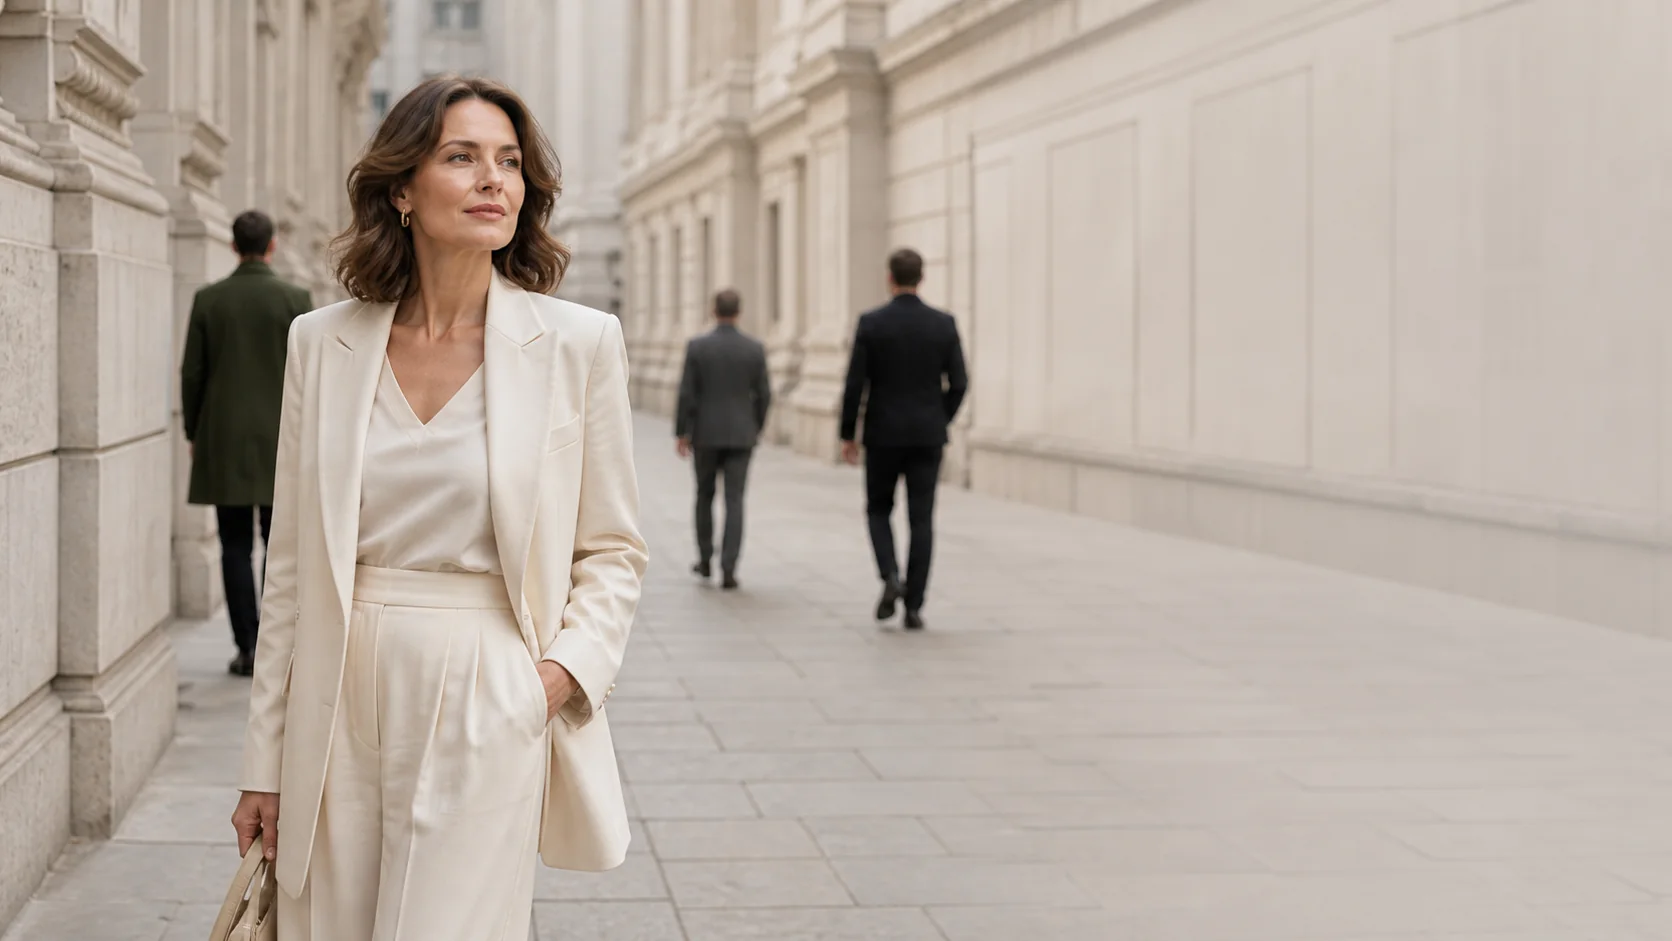
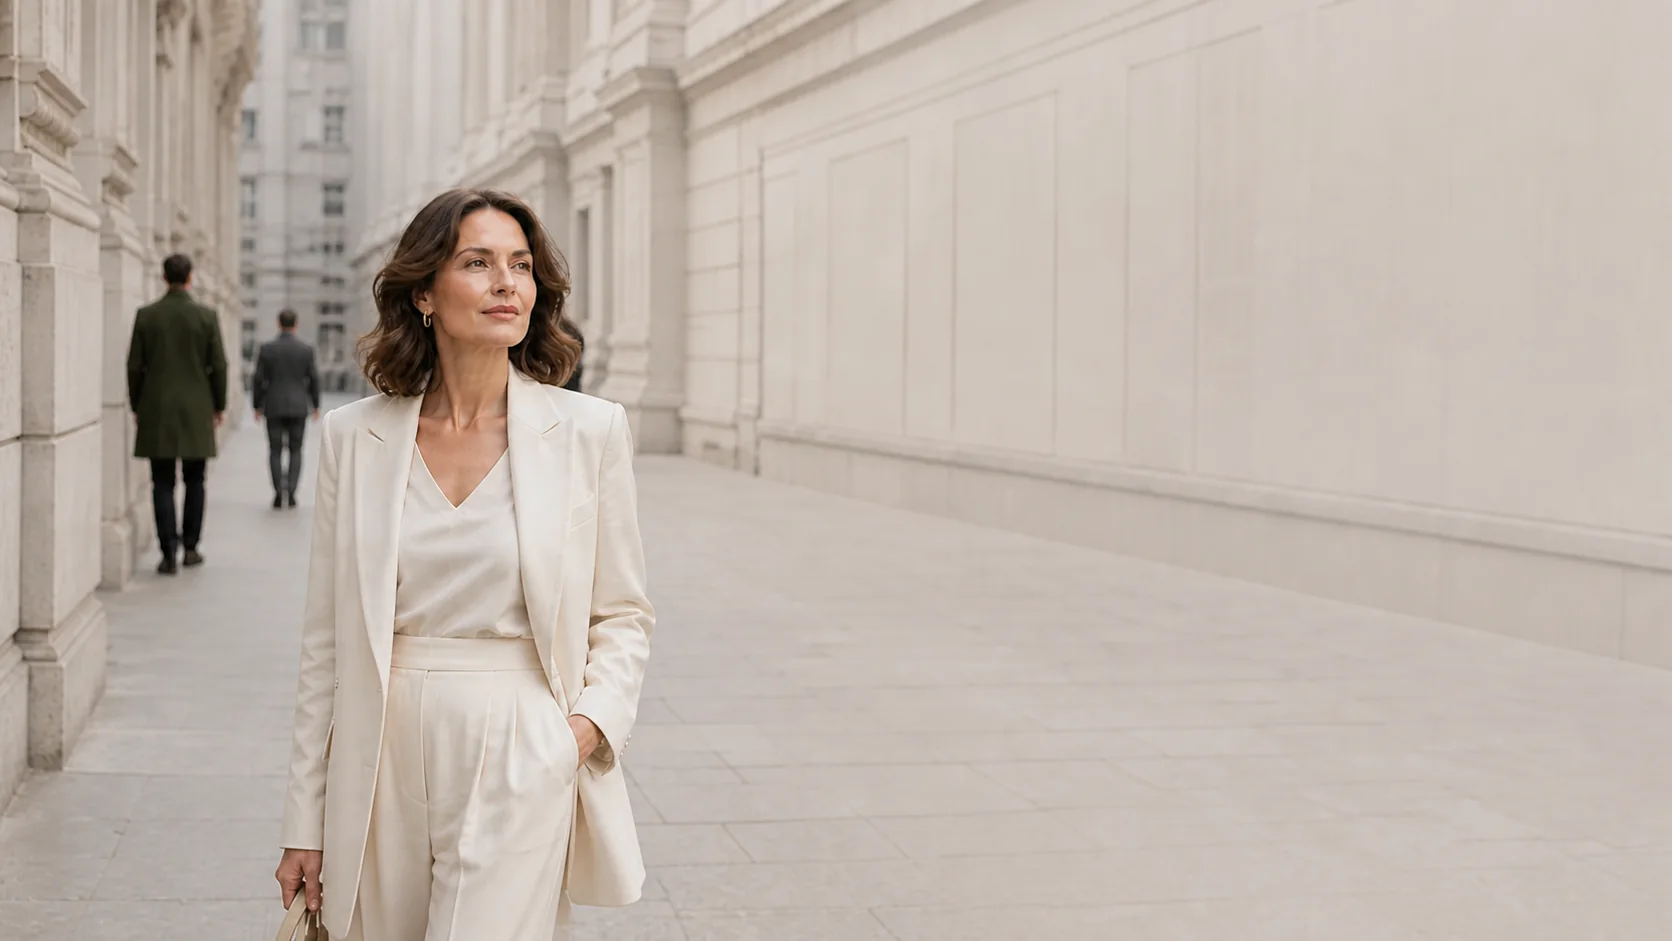
Refine relationship landing messaging

diff --git a/api/_relationship-dashboard-page.js b/api/_relationship-dashboard-page.js
@@ -258,6 +258,7 @@ export const RELATIONSHIP_DASHBOARD_PAGE = String.raw`<!doctype html>
       <section class="change-log" aria-labelledby="change-log-title">
         <div class="change-log__head"><div><p>Контрольные точки</p><h2 id="change-log-title">Сделанные изменения</h2></div></div>
         <ol>
+          <li><time datetime="2026-09-01">1 сентября 2026</time><div><strong>Уточнили пользу теста и композицию первого экрана</strong><p>В обоих flow термин «сценарий» заменён на прямое обещание: понять, что мешает и что можно изменить. CTA теперь соответствует задаче каждого теста. В Flow B слово «плохо?» выделено розовым акцентом; в десктопном Flow A люди убраны из зоны текста, а героиня отодвинута от логотипа.</p></div></li>
           <li><time datetime="2026-09-01">1 сентября 2026</time><div><strong>Синхронизировали лендинги с лучшими рекламными визуалами</strong><p>Flow A продолжает светлый городской сюжет объявления «Мужчины меняются. До отношений снова не доходит», Flow B — тёмный интерьер и вопрос «В отношениях всё нормально. Почему мне в них плохо?». Для мобильных подготовлены отдельные вертикальные кадры; лишние тексты, видео, список обещаний и ссылка с логотипа убраны. CTA заменён на «Узнать свой сценарий», подсказка про кнопку Start сохранена.</p></div></li>
           <li><time datetime="2026-08-31">31 августа 2026</time><div><strong>Добавили подсказку про запуск Telegram-бота</strong><p>Под основной кнопкой на обоих лендингах теперь явно написано: после перехода в Telegram нужно нажать «Запустить» / Start. Изменение направлено на снижение потерь между кликом по CTA и фактическим TelegramStart.</p></div></li>
           <li><time datetime="2026-08-31">31 августа 2026</time><div><strong>Подтвердили живую конверсию в Meta</strong><p>После исправления внутренняя статистика показывает 7 фактических вступлений: A — 3, B — 4. Events Manager увидел 4 Complete registration, а Ads Manager засчитал REL-B одну Website Completed Registration стоимостью $11.</p></div></li>

diff --git a/relationship-test/index.html b/relationship-test/index.html
@@ -4,7 +4,7 @@
   <meta charset="utf-8">
   <meta name="viewport" content="width=device-width, initial-scale=1">
   <title>Мужчины меняются. До отношений снова не доходит. — тест Evolution House</title>
-  <meta name="description" content="За 3 минуты узнайте, где всё останавливается и какой сценарий повторяется в ваших знакомствах.">
+  <meta name="description" content="За 3 минуты поймёте, почему знакомства не перерастают в отношения и что можно изменить.">
   <meta name="robots" content="noindex, nofollow">
   <link rel="canonical" href="https://evolution.yourbalancerestored.com/relationship-test/">
   <meta property="og:title" content="Бесплатный тест об отношениях — Evolution House">
@@ -52,7 +52,7 @@
         <div class="hero__copy">
           <p class="eyebrow">Бесплатный тест <span aria-hidden="true">·</span> 7 вопросов</p>
           <h1 id="hero-title">Мужчины меняются.<br>До отношений снова не доходит.</h1>
-          <p class="hero__lead" id="hero-lead">За 3 минуты узнайте, где всё останавливается и какой сценарий повторяется в ваших знакомствах.</p>
+          <p class="hero__lead" id="hero-lead">За 3 минуты поймёте, почему знакомства не перерастают в отношения и что можно изменить.</p>
 
           <div class="hero__actions">
             <a
@@ -61,7 +61,7 @@
               href="https://t.me/RelationshipScenarioBot?start=no_relationship_landing_a"
               rel="noopener"
             >
-              <span>Узнать свой сценарий</span>
+              <span id="telegram-cta-label">Понять, что мешает</span>
               <svg viewBox="0 0 24 24" aria-hidden="true"><path d="M21.7 3.1 18.6 20c-.2 1.2-.9 1.5-1.9.9l-4.8-3.5-2.3 2.2c-.3.3-.5.5-1 .5l.3-4.9 8.9-8c.4-.4-.1-.6-.6-.3l-11 6.9-4.7-1.5c-1-.3-1-1 .2-1.5L20.2 3.7c.9-.3 1.7.2 1.5-.6Z"/></svg>
             </a>
             <p class="telegram-start-note">Откроется Telegram. Нажмите <strong>«Запустить» (Start)</strong>.</p>

diff --git a/relationship-test/relationship-test.js b/relationship-test/relationship-test.js
@@ -3,14 +3,16 @@ const variants = {
     testId: "test_a_no_relationship",
     title: "Мужчины меняются. До отношений снова не доходит.",
     titleHtml: "Мужчины меняются.<br>До отношений снова не доходит.",
-    lead: "За 3 минуты узнайте, где всё останавливается и какой сценарий повторяется в ваших знакомствах.",
+    lead: "За 3 минуты поймёте, почему знакомства не перерастают в отношения и что можно изменить.",
+    ctaLabel: "Понять, что мешает",
     telegramUrl: "https://t.me/RelationshipScenarioBot?start=no_relationship_landing_a"
   },
   b: {
     testId: "test_b_relationship_challenges",
     title: "В отношениях всё нормально. Почему мне в них плохо?",
-    titleHtml: "В отношениях всё нормально.<br>Почему мне в них плохо?",
-    lead: "За 3 минуты узнайте, что происходит между вами и какой сценарий создаёт дистанцию.",
+    titleHtml: "В отношениях всё нормально.<br>Почему мне в них <span class=\"title-accent\">плохо?</span>",
+    lead: "За 3 минуты поймёте, что создаёт дистанцию между вами и что можно изменить.",
+    ctaLabel: "Понять, что происходит",
     telegramUrl: "https://t.me/RelationshipScenarioBot?start=relationship_challenges_landing_b"
   }
 };
@@ -26,12 +28,14 @@ function applyVariant() {
   const variantId = variant === variants.b ? "b" : "a";
   const title = document.getElementById("hero-title");
   const lead = document.getElementById("hero-lead");
+  const ctaLabel = document.getElementById("telegram-cta-label");
   const links = [
     document.getElementById("telegram-cta")
   ];
 
   title.innerHTML = variant.titleHtml;
   lead.textContent = variant.lead;
+  ctaLabel.textContent = variant.ctaLabel;
   document.body.dataset.variant = variantId;
   document.title = `${variant.title} — тест Evolution House`;
   links.forEach((link) => {

diff --git a/relationship-test/relationship-test.css b/relationship-test/relationship-test.css
@@ -223,6 +223,10 @@ body[data-variant="b"] .telegram-start-note {
   color: #f8f4ed;
 }
 
+body[data-variant="b"] .title-accent {
+  color: #d98d9a;
+}
+
 body[data-variant="b"] .button--primary {
   background: var(--rose);
   box-shadow: 0 0.8rem 2rem rgba(0, 0, 0, 0.28);
@@ -314,6 +318,11 @@ body[data-variant="b"] .landing-footer p {
 }
 
 @media (min-width: 56rem) {
+  .landing-header__inner {
+    width: calc(100% - 4rem);
+    max-width: none;
+  }
+
   .hero {
     min-height: 90svh;
     align-items: center;
